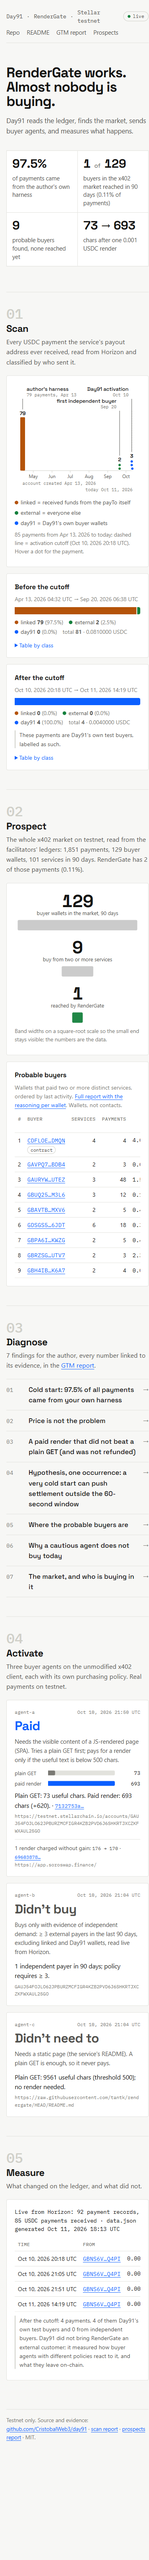
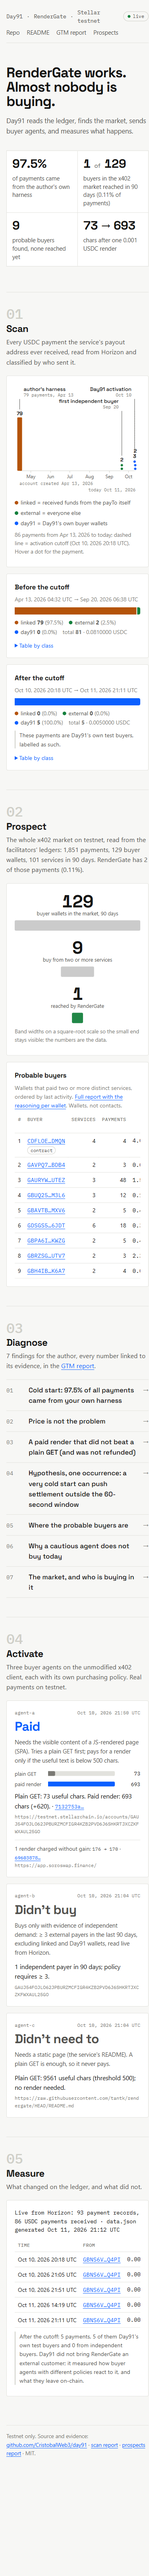
Funnel en vivo: stream SSE de Horizon con caída a sondeo, redibujo en sitio, pulso, fila resaltada y aviso
- docs/index.html: EventSource sobre /accounts/<payTo>/payments?cursor=<último paging_token>;
  si el stream falla, sondeo cada 10 s (order=desc&limit=10); dedupe por tx+from+amount;
  renderAll() redibuja línea de tiempo, barras, conteos y tabla de Measure; punto/columna
  nuevos con pulso, fila nueva resaltada 6 s, aviso 8 s arriba a la derecha; pill 'live'
  parpadea mientras el stream está conectado; sin animaciones con prefers-reduced-motion;
  rótulos de conteo adyacentes se apilan
- Probado con un pago real (tx 9106dbae…cbbf): punto, barra, fila y aviso sin recargar
  (docs/screenshots/funnel-live.png, funnel-live-measure.png)
- scan y data.json regenerados (5 pagos day91); README, reporte, submission y Estado a 5

diff --git a/docs/index.html b/docs/index.html
@@ -144,7 +144,24 @@
   .secondary { font-size: 0.88rem; color: var(--fg-2); margin-top: 12px; padding-top: 10px; border-top: 1px solid var(--line); }
 
   footer { margin-top: 64px; padding-top: 16px; border-top: 1px solid var(--line); font-size: 0.85rem; color: var(--muted); }
-  @media (prefers-reduced-motion: reduce) { html { scroll-behavior: auto; } }
+
+  /* Live mode: streaming indicator, pulse on the new mark, highlighted new row, toast. */
+  .pill.streaming::before { animation: blink 2.4s ease-in-out infinite; }
+  .pill.polling::before { background: var(--external); opacity: 0.6; }
+  @keyframes blink { 0%, 100% { opacity: 1; } 50% { opacity: 0.2; } }
+  .chart .fresh { transform-box: fill-box; transform-origin: center; animation: pulse 900ms ease-out 3; }
+  @keyframes pulse { 0% { transform: scale(1); } 45% { transform: scale(2); } 100% { transform: scale(1); } }
+  tr.fresh td { animation: rowflash 6s ease-out forwards; }
+  @keyframes rowflash { 0%, 55% { background: rgba(11, 95, 255, 0.14); } 100% { background: transparent; } }
+  .toast { position: fixed; top: 16px; right: 16px; z-index: 10; background: var(--card); color: var(--fg); border: 1px solid var(--line-2); border-left: 3px solid var(--day91); border-radius: 4px; padding: 10px 14px; font-size: 0.9rem; box-shadow: 0 8px 28px rgba(0, 0, 0, 0.14); max-width: calc(100vw - 32px); animation: toastin 240ms ease-out; }
+  .toast.out { animation: toastout 300ms ease-in forwards; }
+  @keyframes toastin { from { opacity: 0; transform: translateY(-6px); } to { opacity: 1; transform: none; } }
+  @keyframes toastout { to { opacity: 0; transform: translateY(-6px); } }
+  @media (prefers-reduced-motion: reduce) {
+    html { scroll-behavior: auto; }
+    .pill.streaming::before, .chart .fresh, .toast, .toast.out { animation: none; }
+    tr.fresh td { animation: none; background: rgba(11, 95, 255, 0.14); }
+  }
 </style>
 </head>
 <body>
@@ -298,7 +315,7 @@
         if (records.length < 200) break;
         url = body._links.next.href;
       }
-      return out;
+      return { records: out, cursor: out.at(-1)?.paging_token ?? "now" };
     } finally { clearTimeout(timer); }
   }
 
@@ -370,6 +387,7 @@
     for (const p of payments) { const k = p.at.slice(0, 10); days.set(k, [...(days.get(k) ?? []), p]); }
     const maxN = Math.max(1, ...[...days.values()].map((l) => l.length));
     const colTop = new Map();
+    let lastCnt = null; // last count label, to lift a label that would touch its neighbour
     for (const [day, list] of days) {
       const n = list.length, xx = x(day + "T12:00:00Z");
       let topY;
@@ -381,7 +399,7 @@
           if (!sub.length) continue;
           const hgt = Math.max(2, (sub.length / n) * total - 2);
           yCursor -= hgt;
-          const r = el("rect", { x: xx - 6, y: yCursor, width: 12, height: hgt, rx: 2, class: `col ${cls}` });
+          const r = el("rect", { x: xx - 6, y: yCursor, width: 12, height: hgt, rx: 2, class: `col ${cls}${sub.some((p) => p.fresh) ? " fresh" : ""}` });
           r.appendChild(el("title", {}, `${fmtDay(day + "T00:00:00Z")} · ${sub.length} ${cls} payment${sub.length === 1 ? "" : "s"} · ${fmt(sub.reduce((a, p) => a + p.amount, 0n))} USDC`));
           svg.appendChild(r);
           yCursor -= 2;
@@ -389,13 +407,18 @@
         topY = yCursor + 2;
       } else {
         list.sort((a, b) => a.at.localeCompare(b.at)).forEach((p, i) => {
-          const c = el("circle", { cx: xx, cy: y0 - 5 - i * 9, r: 4, class: `pt ${p.cls}` });
+          const c = el("circle", { cx: xx, cy: y0 - 5 - i * 9, r: 4, class: `pt ${p.cls}${p.fresh ? " fresh" : ""}` });
           c.appendChild(el("title", {}, `${fmtDate(p.at)} · ${p.cls} · ${fmt(p.amount)} USDC · ${short(p.from)}`));
           svg.appendChild(c);
         });
         topY = y0 - 5 - (n - 1) * 9 - 4;
       }
-      if (n >= 2) { svg.appendChild(el("text", { x: xx, y: topY - 5, "text-anchor": "middle", class: "cnt" }, String(n))); topY -= 18; }
+      if (n >= 2) {
+        let ly = topY - 5;
+        if (lastCnt && Math.abs(xx - lastCnt.x) < 16 && Math.abs(ly - lastCnt.y) < 12) ly = lastCnt.y - 13;
+        svg.appendChild(el("text", { x: xx, y: ly, "text-anchor": "middle", class: "cnt" }, String(n)));
+        lastCnt = { x: xx, y: ly }; topY = ly - 13;
+      }
       colTop.set(day, topY);
     }
     // annotations, derived from the data
@@ -475,27 +498,21 @@
     const day91 = new Set(data.day91Wallets), linked = new Set(data.linked.map((l) => l.address));
     const classify = (from) => (day91.has(from) ? "day91" : linked.has(from) ? "linked" : "external");
 
-    let payments, source, live = true;
+    let payments, source, live = true, cursor = null;
     try {
-      const records = await livePayments(payTo);
-      payments = incomingUsdc(records, payTo).map((p) => ({ ...p, cls: classify(p.from) }));
-      source = `Live from Horizon: ${records.length} payment records, ${payments.length} USDC payments received · data.json generated ${fmtDate(data.generatedAt)}`;
+      const loaded = await livePayments(payTo);
+      cursor = loaded.cursor;
+      payments = incomingUsdc(loaded.records, payTo).map((p) => ({ ...p, cls: classify(p.from) }));
+      source = `Live from Horizon: ${loaded.records.length} payment records, ${payments.length} USDC payments received · data.json generated ${fmtDate(data.generatedAt)}`;
     } catch (err) {
       live = false;
       console.warn("live ledger unavailable, using snapshot", err);
       payments = data.snapshot.payments.map((p) => ({ ...p, amount: toStroops(p.amount) }));
       source = `Showing snapshot from ${fmtDate(data.snapshot.takenAt)}; live ledger unavailable (${err.name === "AbortError" ? `no answer in ${LIVE_TIMEOUT_MS / 1000} s` : err.message}).`;
     }
+    const setPill = (text, mode) => { $("pill").textContent = text; $("pill").className = `pill ${text}${mode ? ` ${mode}` : ""}`; $("pill").title = mode === "streaming" ? "connected to Horizon's event stream" : mode === "polling" ? "polling Horizon every 10 s" : ""; };
     $("status").textContent = source;
-    $("pill").textContent = live ? "live" : "snapshot"; $("pill").className = `pill ${live ? "live" : "snapshot"}`;
-
-    const before = payments.filter((p) => p.at < data.cutoff), after = payments.filter((p) => p.at >= data.cutoff);
-    const render = () => { drawTimeline($("timeline"), payments, data.accountCreatedAt, data.cutoff); if (data.market) drawFunnel($("funnel"), funnelLevels); };
-    stackedBar($("before-bar"), $("before-counts"), before); stackedBar($("after-bar"), $("after-counts"), after);
-    classTable($("before-table"), before); classTable($("after-table"), after);
-    $("before-range").textContent = before.length ? `${fmtDate(before[0].at)} → ${fmtDate(before.at(-1).at)}` : "no payments";
-    $("after-range").textContent = after.length ? `${fmtDate(after[0].at)} → ${fmtDate(after.at(-1).at)}` : "no payments yet";
-    $("timeline-caption").textContent = `${payments.length} payments from ${fmtDay(data.accountCreatedAt ?? payments[0]?.at)} to today; dashed line = activation cutoff (${fmtDate(data.cutoff)}). Hover a dot for the payment.`;
+    setPill(live ? "live" : "snapshot");
 
     let funnelLevels = [];
     if (data.market) {
@@ -511,23 +528,83 @@
       $("prospects-table").innerHTML = `<thead><tr><th class="num">#</th><th>buyer</th><th class="num">services</th><th class="num">payments</th><th class="num">USDC</th><th>first</th><th>last</th><th>paid ${esc(data.service.name)}</th></tr></thead><tbody>` +
         m.prospects.map((p) => `<tr><td class="num">${p.rank}</td><td>${acct(p.address)}${p.isContract ? ` <span class="tag">contract</span>` : ""}</td><td class="num">${p.services}</td><td class="num">${p.payments}</td><td class="num mono">${esc(p.usdc)}</td><td class="nowrap">${fmtDay(p.first)}</td><td class="nowrap">${fmtDay(p.last)}</td><td>${p.paidTarget ? "yes" : "no"}</td></tr>`).join("") + `</tbody>`;
     }
-    render();
-    let rt; addEventListener("resize", () => { clearTimeout(rt); rt = setTimeout(render, 150); });
+
+    // Everything that depends on the payment list is drawn here, so a new payment only needs one call.
+    function renderAll() {
+      payments.sort((a, b) => a.at.localeCompare(b.at));
+      const before = payments.filter((p) => p.at < data.cutoff), after = payments.filter((p) => p.at >= data.cutoff);
+      drawTimeline($("timeline"), payments, data.accountCreatedAt, data.cutoff);
+      if (data.market) drawFunnel($("funnel"), funnelLevels);
+      stackedBar($("before-bar"), $("before-counts"), before); stackedBar($("after-bar"), $("after-counts"), after);
+      classTable($("before-table"), before); classTable($("after-table"), after);
+      $("before-range").textContent = before.length ? `${fmtDate(before[0].at)} → ${fmtDate(before.at(-1).at)}` : "no payments";
+      $("after-range").textContent = after.length ? `${fmtDate(after[0].at)} → ${fmtDate(after.at(-1).at)}` : "no payments yet";
+      $("timeline-caption").textContent = `${payments.length} payments from ${fmtDay(data.accountCreatedAt ?? payments[0]?.at)} to today; dashed line = activation cutoff (${fmtDate(data.cutoff)}). Hover a dot for the payment.`;
+      const mine = payments.filter((p) => p.cls === "day91");
+      $("day91-table").innerHTML = `<thead><tr><th>time</th><th>from</th><th class="num">USDC</th><th>transaction</th></tr></thead><tbody>` +
+        (mine.length ? mine.map((p) => `<tr${p.fresh ? ' class="fresh"' : ""}><td class="nowrap">${fmtDate(p.at)}</td><td>${acct(p.from)}</td><td class="num mono">${fmt(p.amount)}</td><td>${txLink(p.tx)}</td></tr>`).join("") : `<tr><td colspan="4" class="muted">none</td></tr>`) + `</tbody>`;
+      const extAfter = after.filter((p) => p.cls === "external").length, mineAfter = after.filter((p) => p.cls === "day91").length;
+      $("honest").textContent = `After the cutoff: ${after.length} payment${after.length === 1 ? "" : "s"}, ${mineAfter} of them Day91's own test buyers and ${extAfter} from independent buyers. Day91 did not bring ${data.service.name} an external customer; it measured how buyer agents with different policies react to it, and what they leave on-chain.`;
+    }
+    renderAll();
+    let rt; addEventListener("resize", () => { clearTimeout(rt); rt = setTimeout(renderAll, 150); });
 
     if (data.findings?.length) {
       $("diagnose").hidden = false;
       $("diagnose-lead").innerHTML = `${data.findings.length} findings for the author, every number linked to its evidence, in the ${ext(data.links.report, "GTM report")}.`;
       $("findings").innerHTML = data.findings.map((f) => `<li><span class="n">${String(f.n).padStart(2, "0")}</span>${ext(f.url, esc(f.title))}<span class="arrow" aria-hidden="true">→</span></li>`).join("");
     }
-
     $("cards").innerHTML = decisionCards(data.decisions);
-
-    const mine = payments.filter((p) => p.cls === "day91");
-    $("day91-table").innerHTML = `<thead><tr><th>time</th><th>from</th><th class="num">USDC</th><th>transaction</th></tr></thead><tbody>` +
-      (mine.length ? mine.map((p) => `<tr><td class="nowrap">${fmtDate(p.at)}</td><td>${acct(p.from)}</td><td class="num mono">${fmt(p.amount)}</td><td>${txLink(p.tx)}</td></tr>`).join("") : `<tr><td colspan="4" class="muted">none</td></tr>`) + `</tbody>`;
-    const extAfter = after.filter((p) => p.cls === "external").length;
-    $("honest").textContent = `After the cutoff: ${after.length} payment${after.length === 1 ? "" : "s"}, ${mine.length} of them Day91's own test buyers and ${extAfter} from independent buyers. Day91 did not bring ${data.service.name} an external customer; it measured how buyer agents with different policies react to it, and what they leave on-chain.`;
     $("footer").innerHTML = `Testnet only. Source and evidence: ${ext(data.links.repo, "github.com/CristobalWeb3/day91")} · ${ext(data.links.scanMd, "scan report")} · ${ext(data.links.prospectsMd, "prospects report")} · MIT.`;
+
+    // Live mode: new USDC payments to the payTo arrive through Horizon's event stream; polling every 10 s if the stream fails.
+    const key = (p) => `${p.tx}:${p.from}:${p.amount}`;
+    const seen = new Set(payments.map(key));
+    function toast(p) {
+      const t = document.createElement("div");
+      t.className = "toast"; t.setAttribute("role", "status");
+      t.innerHTML = `New payment · <strong>${p.cls}</strong> · <span class="mono">${fmt(p.amount)} USDC</span> · ${txLink(p.tx)}`;
+      document.body.appendChild(t);
+      setTimeout(() => { if (REDUCED) t.remove(); else { t.classList.add("out"); setTimeout(() => t.remove(), 320); } }, 8000);
+    }
+    function addPayments(fresh) {
+      for (const p of fresh) { p.fresh = true; seen.add(key(p)); payments.push(p); }
+      renderAll();
+      for (const p of fresh) toast(p);
+      setTimeout(() => { for (const p of fresh) p.fresh = false; }, 7000);
+    }
+    function handleRecords(records) {
+      const fresh = incomingUsdc(records, payTo).map((p) => ({ ...p, cls: classify(p.from) })).filter((p) => !seen.has(key(p)));
+      if (fresh.length) addPayments(fresh);
+    }
+    let es = null, pollTimer = null;
+    function startPolling() {
+      if (pollTimer) return;
+      setPill(live ? "live" : "snapshot", "polling");
+      const poll = async () => {
+        try {
+          const res = await fetch(`${HORIZON}/accounts/${payTo}/payments?order=desc&limit=10`, { cache: "no-store" });
+          if (res.ok) handleRecords((await res.json())._embedded.records);
+        } catch (err) { console.warn("poll failed", err); }
+      };
+      pollTimer = setInterval(poll, 10000);
+    }
+    function startStream(from) {
+      if (typeof EventSource === "undefined") return startPolling();
+      let opened = false;
+      es = new EventSource(`${HORIZON}/accounts/${payTo}/payments?cursor=${encodeURIComponent(from)}&order=asc`);
+      const guard = setTimeout(() => { if (!opened) { es.close(); startPolling(); } }, 15000);
+      es.onopen = () => { opened = true; clearTimeout(guard); setPill("live", "streaming"); };
+      es.onmessage = (ev) => {
+        let r; try { r = JSON.parse(ev.data); } catch { return; }
+        if (r && typeof r === "object" && r.type) handleRecords([r]);
+      };
+      es.onerror = () => {
+        if (es.readyState === EventSource.CLOSED) { clearTimeout(guard); startPolling(); } // fatal: fall back
+        else setPill("live", "reconnecting"); // Horizon ends streams periodically; EventSource resumes with Last-Event-ID
+      };
+    }
+    if (live) startStream(cursor ?? "now"); else startPolling();
   } catch (err) {
     $("status").textContent = `Error: ${err.message}`;
     $("pill").textContent = "error";

diff --git a/CLAUDE.md b/CLAUDE.md
@@ -132,14 +132,14 @@ day91/
 
 ## Estado (11-oct-2026, bloque 5 + prospección: solo falta el video)
 
-- **On-chain:** wallet `GBNS6VZI…Q4PI` (~19.996 USDC). 4 pagos de Day91 a RenderGate (0.001 c/u): `d8453fc3…` (10-oct 20:18:37Z, **marca de corte**, `data/activation.json`),
-  `69603878…` (A, Soroswap, 176 → 170, cobrado sin aportar), `7132753a…` (A, stellarchain, 73 → 693; verificado gratis con Playwright local, 689 chars), `2d51114c…` (11-oct, medición en frío).
+- **On-chain:** wallet `GBNS6VZI…Q4PI` (~19.995 USDC). 5 pagos de Day91 a RenderGate (0.001 c/u): `d8453fc3…` (10-oct 20:18:37Z, **marca de corte**, `data/activation.json`),
+  `69603878…` (A, Soroswap, 176 → 170, cobrado sin aportar), `7132753a…` (A, stellarchain, 73 → 693; verificado con Playwright local), `2d51114c…` (11-oct, medición en frío), `9106dbae…` (11-oct, prueba del modo en vivo).
 - **Agentes (`data/decisions.jsonl`, 4 líneas, no se edita más):** C no paga; B no compra (1 pagador externo en 90 días, política ≥ 3); A paga 2 veces. Salida en inglés; `DAY91_DRY_RUN=1` no graba.
 - **Prospección (`day91 prospects <payTo>`):** 90 días de los 3 facilitators de `src/config.ts` (~5 s). Sin nuestras wallets: 2 296 pagos, 224 compradores, 113 servicios, 804.76 USDC;
   sin tráfico de prueba probable (precio medio ≤ 0.0001, 12 servicios, incluye el bloque 7×60×11): 1 851 / 129 / 101. RenderGate 2 pagos / 1 comprador (0,09 % / 0,45 % del total; 0,11 % / 0,78 % sin tráfico de prueba; citar siempre el par con la misma base); 9 prospectos →
   `data/prospects-<payTo>.{json,md}`; el 1.º es un contrato que paga exactamente 1 USDC a 4 servicios vía los gemelos (posible infraestructura de prueba, dicho en el reporte). Bridge a Base: attestation emitida (27 → 6), nada acuñado.
 - **Funnel (`docs/`, https://cristobalweb3.github.io/day91/):** titular + 4 cifras animadas y 5 secciones: 01 Scan (línea de tiempo SVG anotada, barras) · 02 Prospect (embudo 129 → 9 → 1, tabla)
-  · 03 Diagnose (hallazgos leídos del .md) · 04 Activate (tarjetas) · 05 Measure. Horizon en vivo o snapshot (> 10 s). Space Grotesk + IBM Plex Mono con fallback; paleta validada; capturas en `docs/screenshots/`.
+  · 03 Diagnose (hallazgos del .md) · 04 Activate · 05 Measure. Horizon en vivo o snapshot (> 10 s); **modo en vivo**: SSE de Horizon (sondeo cada 10 s si falla), redibuja en sitio con pulso, fila resaltada y aviso 8 s (probado con un pago real). Capturas en `docs/screenshots/`.
 - **Documentos:** `README.md` (5 pasos, limitaciones, roadmap), `reasoning/rendergate-gtm.md` (7 hallazgos + 6 acciones; redactado por LLM; issue manual en tantk/rendergate), `docs/submission.md`.
 - **Ejecutar:** `setup-buyer` · `buy-render -- [url] [agente]` · `day91 -- scan|prospects <payTo>` · `agent-a|b|c` · `funnel-data` · `typecheck`.
 - **Decisiones fuera del plan:** `src/x402/paid-get.ts` compartido. stellar-sdk ^16. Hash desde `payment-response` o Horizon por `from`. Montos BigInt, 7 decimales. "x402" = enviado por un facilitator. LICENSE MIT a nombre de "CristobalWeb3".

diff --git a/data/scan-GAUJ54FOJLO62JPBURZMCFIGR4KZB2PVD6J6SHKRTJXCZKFWXAUL25GO.md b/data/scan-GAUJ54FOJLO62JPBURZMCFIGR4KZB2PVD6J6SHKRTJXCZKFWXAUL25GO.md
@@ -1,9 +1,9 @@
 # Day91 scan: RenderGate (payTo)
 
 - payTo: `GAUJ54FOJLO62JPBURZMCFIGR4KZB2PVD6J6SHKRTJXCZKFWXAUL25GO` (red: stellar:testnet)
-- Generado: 2026-10-11T14:55:58.339Z
+- Generado: 2026-10-11T21:12:41.130Z
 - Marca de corte de la activación: **2026-10-10T20:18:37Z** (primer pago de Day91: [d8453fc3…](https://stellar.expert/explorer/testnet/tx/d8453fc3e3ecf8234606fdb06621629996b98f304fceb9dd5a9b0d9e239945da)). Fuente: `data/activation.json`.
-- Cuenta creada 2026-04-13T04:11:30Z por [GAIH3U…ZNSR](https://stellar.expert/explorer/testnet/account/GAIH3ULLFQ4DGSECF2AR555KZ4KNDGEKN4AFI4SU2M7B43MGK3QJZNSR) (friendbot (testnet)). Saldo USDC actual: 0.0790000.
+- Cuenta creada 2026-04-13T04:11:30Z por [GAIH3U…ZNSR](https://stellar.expert/explorer/testnet/account/GAIH3ULLFQ4DGSECF2AR555KZ4KNDGEKN4AFI4SU2M7B43MGK3QJZNSR) (friendbot (testnet)). Saldo USDC actual: 0.0800000.
 - Clasificación de pagadores: **vinculado** = recibió fondos del propio payTo; **day91** = está en `data/day91-wallets.json`; **externo** = el resto.
 - Todos los montos en USDC con 7 decimales.
 
@@ -53,13 +53,13 @@
 | clase | pagos | pagadores | monto USDC | % de pagos |
 | --- | ---: | ---: | ---: | ---: |
 | vinculado | 0 | 0 | 0.0000000 | 0.0% |
-| day91 | 4 | 1 | 0.0040000 | 100.0% |
+| day91 | 5 | 1 | 0.0050000 | 100.0% |
 | externo | 0 | 0 | 0.0000000 | 0.0% |
-| **total** | 4 | 1 | 0.0040000 | 100% |
+| **total** | 5 | 1 | 0.0050000 | 100% |
 
 | pagador | clase | pagos | monto USDC | primero | último |
 | --- | --- | ---: | ---: | --- | --- |
-| [GBNS6V…Q4PI](https://stellar.expert/explorer/testnet/account/GBNS6VZIEZEFIXJXIOL2PA4K3WDCF3R2O5IVHYRIJHSERZMJU764Q4PI) | day91 | 4 | 0.0040000 | 2026-10-10T20:18:37Z | 2026-10-11T14:19:57Z |
+| [GBNS6V…Q4PI](https://stellar.expert/explorer/testnet/account/GBNS6VZIEZEFIXJXIOL2PA4K3WDCF3R2O5IVHYRIJHSERZMJU764Q4PI) | day91 | 5 | 0.0050000 | 2026-10-10T20:18:37Z | 2026-10-11T21:11:12Z |
 
 ## Compradores externos
 
@@ -108,8 +108,8 @@ Otras salidas USDC de la cohorte (no x402):
 
 ## Sondeo del servicio
 
-- Ficha `GET https://tantk-rendergate.hf.space/` → 200 en 690 ms: `{"service":"RenderGate","description":"Pay-per-render headless browser API on Stellar x402","price":"$0.001","network":"stellar:testnet","usage":"GET /render?url=<encoded_url>"}`
-- 402 `GET https://tantk-rendergate.hf.space/render?url=https%3A%2F%2Fexample.com` → 402 en 505 ms (x402 v2).
+- Ficha `GET https://tantk-rendergate.hf.space/` → 200 en 652 ms: `{"service":"RenderGate","description":"Pay-per-render headless browser API on Stellar x402","price":"$0.001","network":"stellar:testnet","usage":"GET /render?url=<encoded_url>"}`
+- 402 `GET https://tantk-rendergate.hf.space/render?url=https%3A%2F%2Fexample.com` → 402 en 518 ms (x402 v2).
 
 | scheme | red | asset | payTo | amount (raw) | amount USDC | maxTimeoutSeconds | extra |
 | --- | --- | --- | --- | ---: | ---: | ---: | --- |

diff --git a/README.md b/README.md
@@ -40,7 +40,8 @@ independent buyers, and a way for later buyers to see that those first ones exis
    payers in the last 90 days. Agent C has a task that never needs a render. Each agent writes its decision, the numbers it looked at and the
    transaction hash (if any) to `data/decisions.jsonl`.
 5. **Measure.** A static page reads Horizon live from the browser and shows payments before and after the activation cutoff by payer class, the
-   payments Day91 made (each linked to stellar.expert), and the agents' decisions.
+   payments Day91 made (each linked to stellar.expert), and the agents' decisions. It then listens to Horizon's event stream (polling every
+   10 s if the stream fails) and redraws in place when a new payment lands, with a short notice.
 
 ## Results against RenderGate (testnet, 2026-10-10)
 
@@ -48,7 +49,7 @@ independent buyers, and a way for later buyers to see that those first ones exis
 |---|---:|---:|---:|
 | Before the cutoff: linked (author's harness) | 79 | 1 | 0.0790000 |
 | Before the cutoff: external | 2 | 1 | 0.0020000 |
-| After the cutoff: day91 | 4 | 1 | 0.0040000 |
+| After the cutoff: day91 | 5 | 1 | 0.0050000 |
 
 - **97.5%** of historical payments came from a wallet created 5 seconds after the payTo by the same friendbot and later refunded by it.
   One independent buyer in 180 days; 20 days without an external sale at the cutoff.
@@ -67,7 +68,8 @@ independent buyers, and a way for later buyers to see that those first ones exis
 Transactions: [d8453fc3…](https://stellar.expert/explorer/testnet/tx/d8453fc3e3ecf8234606fdb06621629996b98f304fceb9dd5a9b0d9e239945da)
 (cutoff), [69603878…](https://stellar.expert/explorer/testnet/tx/69603878693153fca79d0ffcf46356370087dcf9ee3dfb5f9c488413bc85c886),
 [7132753a…](https://stellar.expert/explorer/testnet/tx/7132753a567a78e7b832e4c0e88c44b0b40f6d4e6a0c333922da5f526a318255),
-[2d51114c…](https://stellar.expert/explorer/testnet/tx/2d51114c066e26cb513d09be21c236906fc0aa18d30cfb0e2faa1fe14b800eb4) (cold-start check).
+[2d51114c…](https://stellar.expert/explorer/testnet/tx/2d51114c066e26cb513d09be21c236906fc0aa18d30cfb0e2faa1fe14b800eb4) (cold-start check),
+[9106dbae…](https://stellar.expert/explorer/testnet/tx/9106dbae6e0440245a33c598e5e599d356914e894142ad2d80fd73f63f78cbbf) (live-mode check of the funnel).
 
 ## How to run
 

diff --git a/docs/submission.md b/docs/submission.md
@@ -14,7 +14,7 @@ Only ~7.6% of ~962 Stellar hackathon submissions show commits 90 days after the 
 
 Scan: `day91 scan <payTo>` pulls the payout address's full payment history from Horizon, classifies payers as linked (funded by the payTo), day91 (ours) or external, and profiles each external buyer and its operator's cohort. Prospect: `day91 prospects` reads the x402 facilitators' ledgers and ranks wallets that buy from several services. Diagnose: a report for the author, every number linked to evidence. Activate: three buyer agents on the unmodified @x402 client: A pays only if a plain GET is not enough; B buys only with ≥ 3 independent payers in 90 days; C never needs to pay. Measure: a static page reads Horizon live and shows before/after by payer class.
 
-Findings on RenderGate: 97.5% of historical payments came from the author's own harness; one independent buyer in 180 days, who spent 2% of its x402 budget there, so price isn't the blocker; one paid render that added nothing over a plain GET. In a 90-day x402 market of 1,851 payments and 129 buyer wallets (test traffic removed), RenderGate is 0.11% of payments; 9 wallets buy from several services and are the ranked prospects. Four paid renders, verified on-chain, labelled as Day91's own. Prospects are wallets, not contacts; outreach stays manual.
+Findings on RenderGate: 97.5% of historical payments came from the author's own harness; one independent buyer in 180 days, who spent 2% of its x402 budget there, so price isn't the blocker; one paid render that added nothing over a plain GET. In a 90-day x402 market of 1,851 payments and 129 buyer wallets (test traffic removed), RenderGate is 0.11% of payments; 9 wallets buy from several services and are the ranked prospects. Five paid renders, verified on-chain, labelled as Day91's own. Prospects are wallets, not contacts; outreach stays manual.
 
 **Links:**
 

diff --git a/reasoning/rendergate-gtm.md b/reasoning/rendergate-gtm.md
@@ -7,7 +7,7 @@
 
 Hi, and congrats on the 3rd place at Stellar Hacks: Agents. We used RenderGate as the first target for Day91, a small tool that
 reads a service's payTo history on Horizon, works out why it isn't selling, and sends a few real buyer agents at it. We paid for
-four renders (0.004 USDC total, testnet) and read everything else from the public ledger. Here is what we found. Take what is
+five renders (0.005 USDC total, testnet) and read everything else from the public ledger. Here is what we found. Take what is
 useful, ignore the rest.
 
 Addresses used below: payTo `GAUJ54…25GO`, your harness wallet `GDMJ5B…IQR3`, the one independent buyer `GBUQ25…M3L6`,
